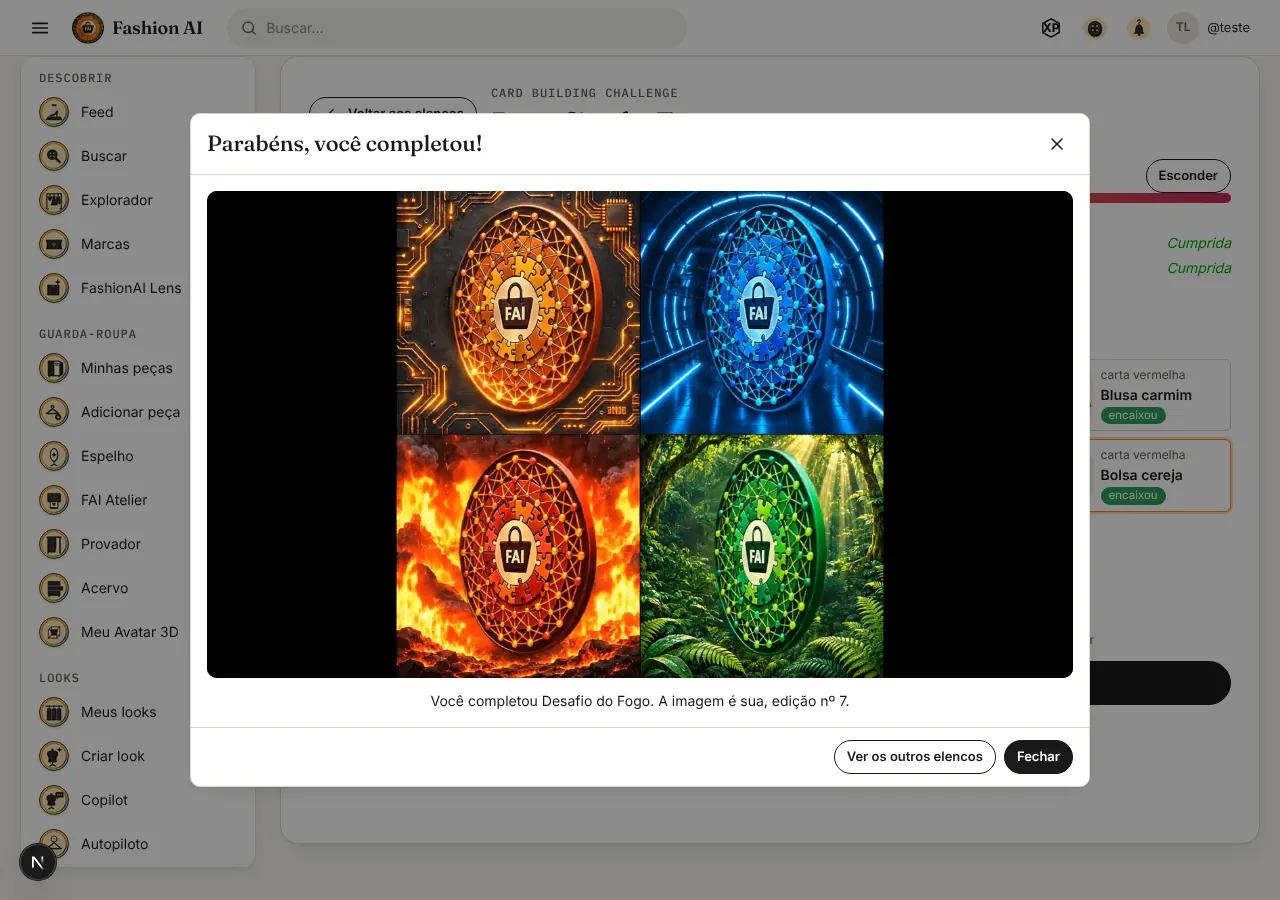
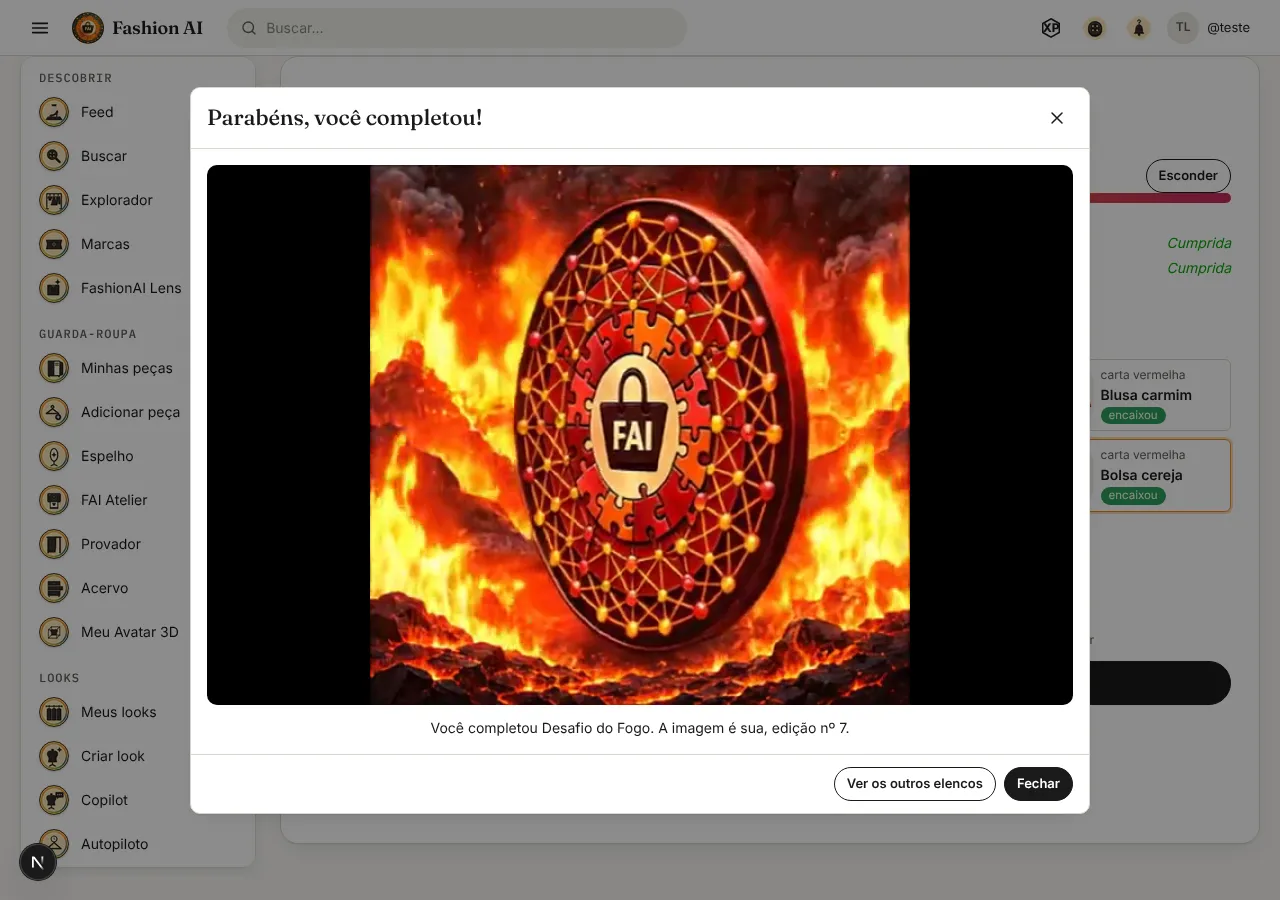
docs(flair-elencos): capturas do modal de cada cena com o próprio quadrante do vídeo
Claude-Session: https://claude.ai/code/session_01Ro1VbpCTg9pbWL95jLQE1K

diff --git a/docs/flair/cbc/CINCO_ELENCOS.md b/docs/flair/cbc/CINCO_ELENCOS.md
@@ -86,4 +86,5 @@ peça encaixa quando a vaga tem carta e a carta cumpre o pedido.
 
 Em `capturas/` (API simulada no navegador): a lista (`elencos-01-lista.webp`), o fogo em andamento com uma peça que não
 encaixou, completo e o modal com o vídeo, o modal da arena, os setores em andamento e o modal com o logo se montando,
-e os cacos em andamento e completos.
+e os cacos em andamento e completos. O modal de cada cena mostra só o quadrante dela do vídeo:
+`elencos-fogo-3-modal.webp`, `elencos-verde-3-modal.webp`, `elencos-azul-3-modal.webp` e `elencos-faitech-3-modal.webp`.
